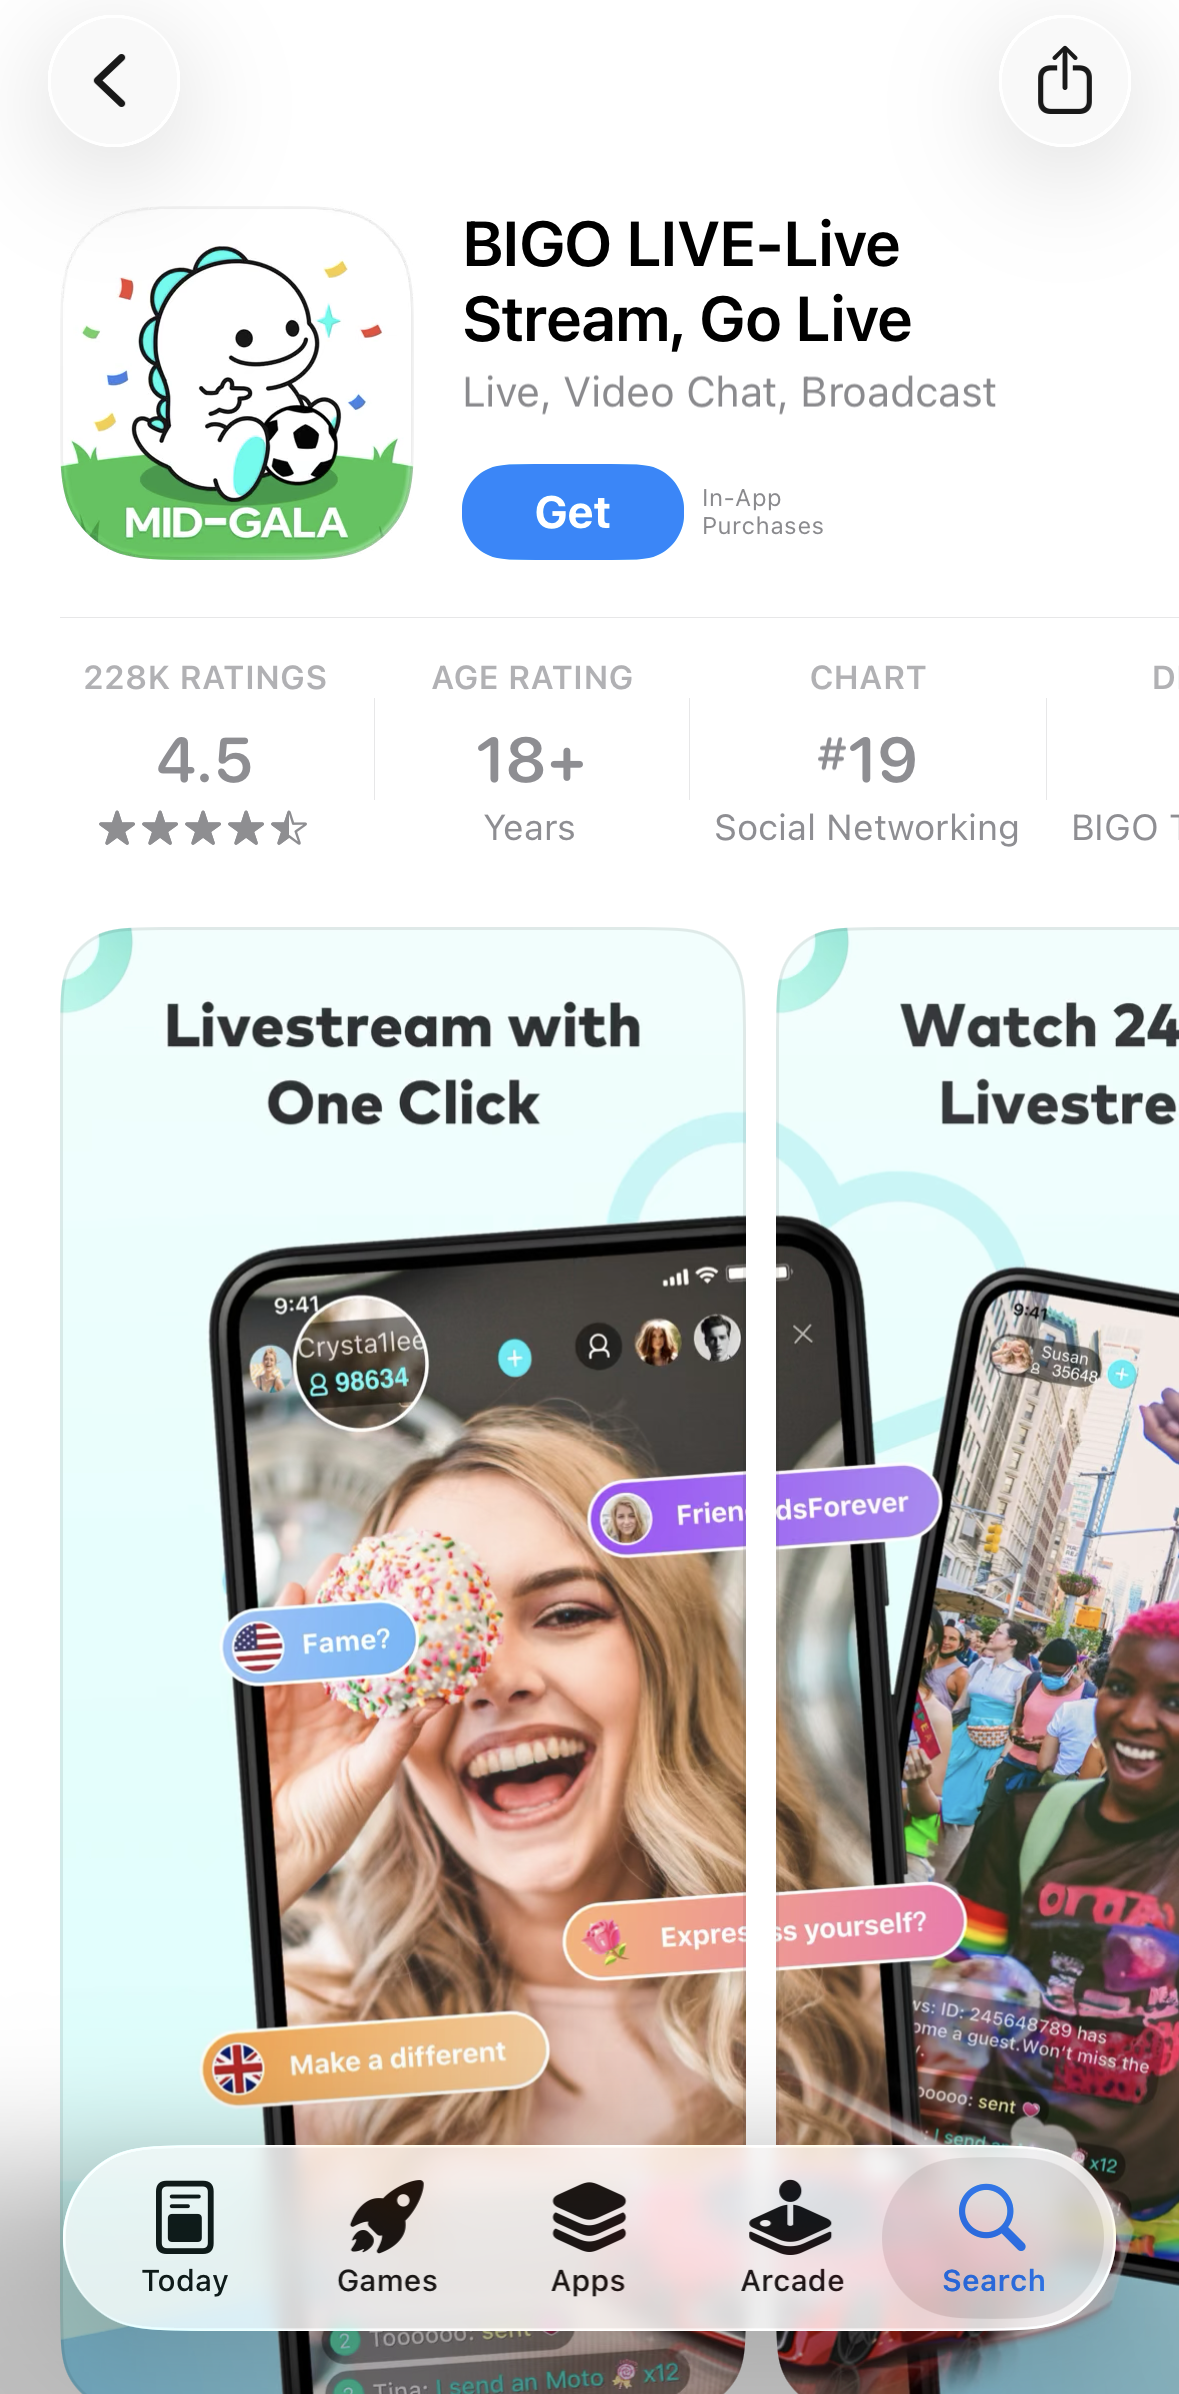
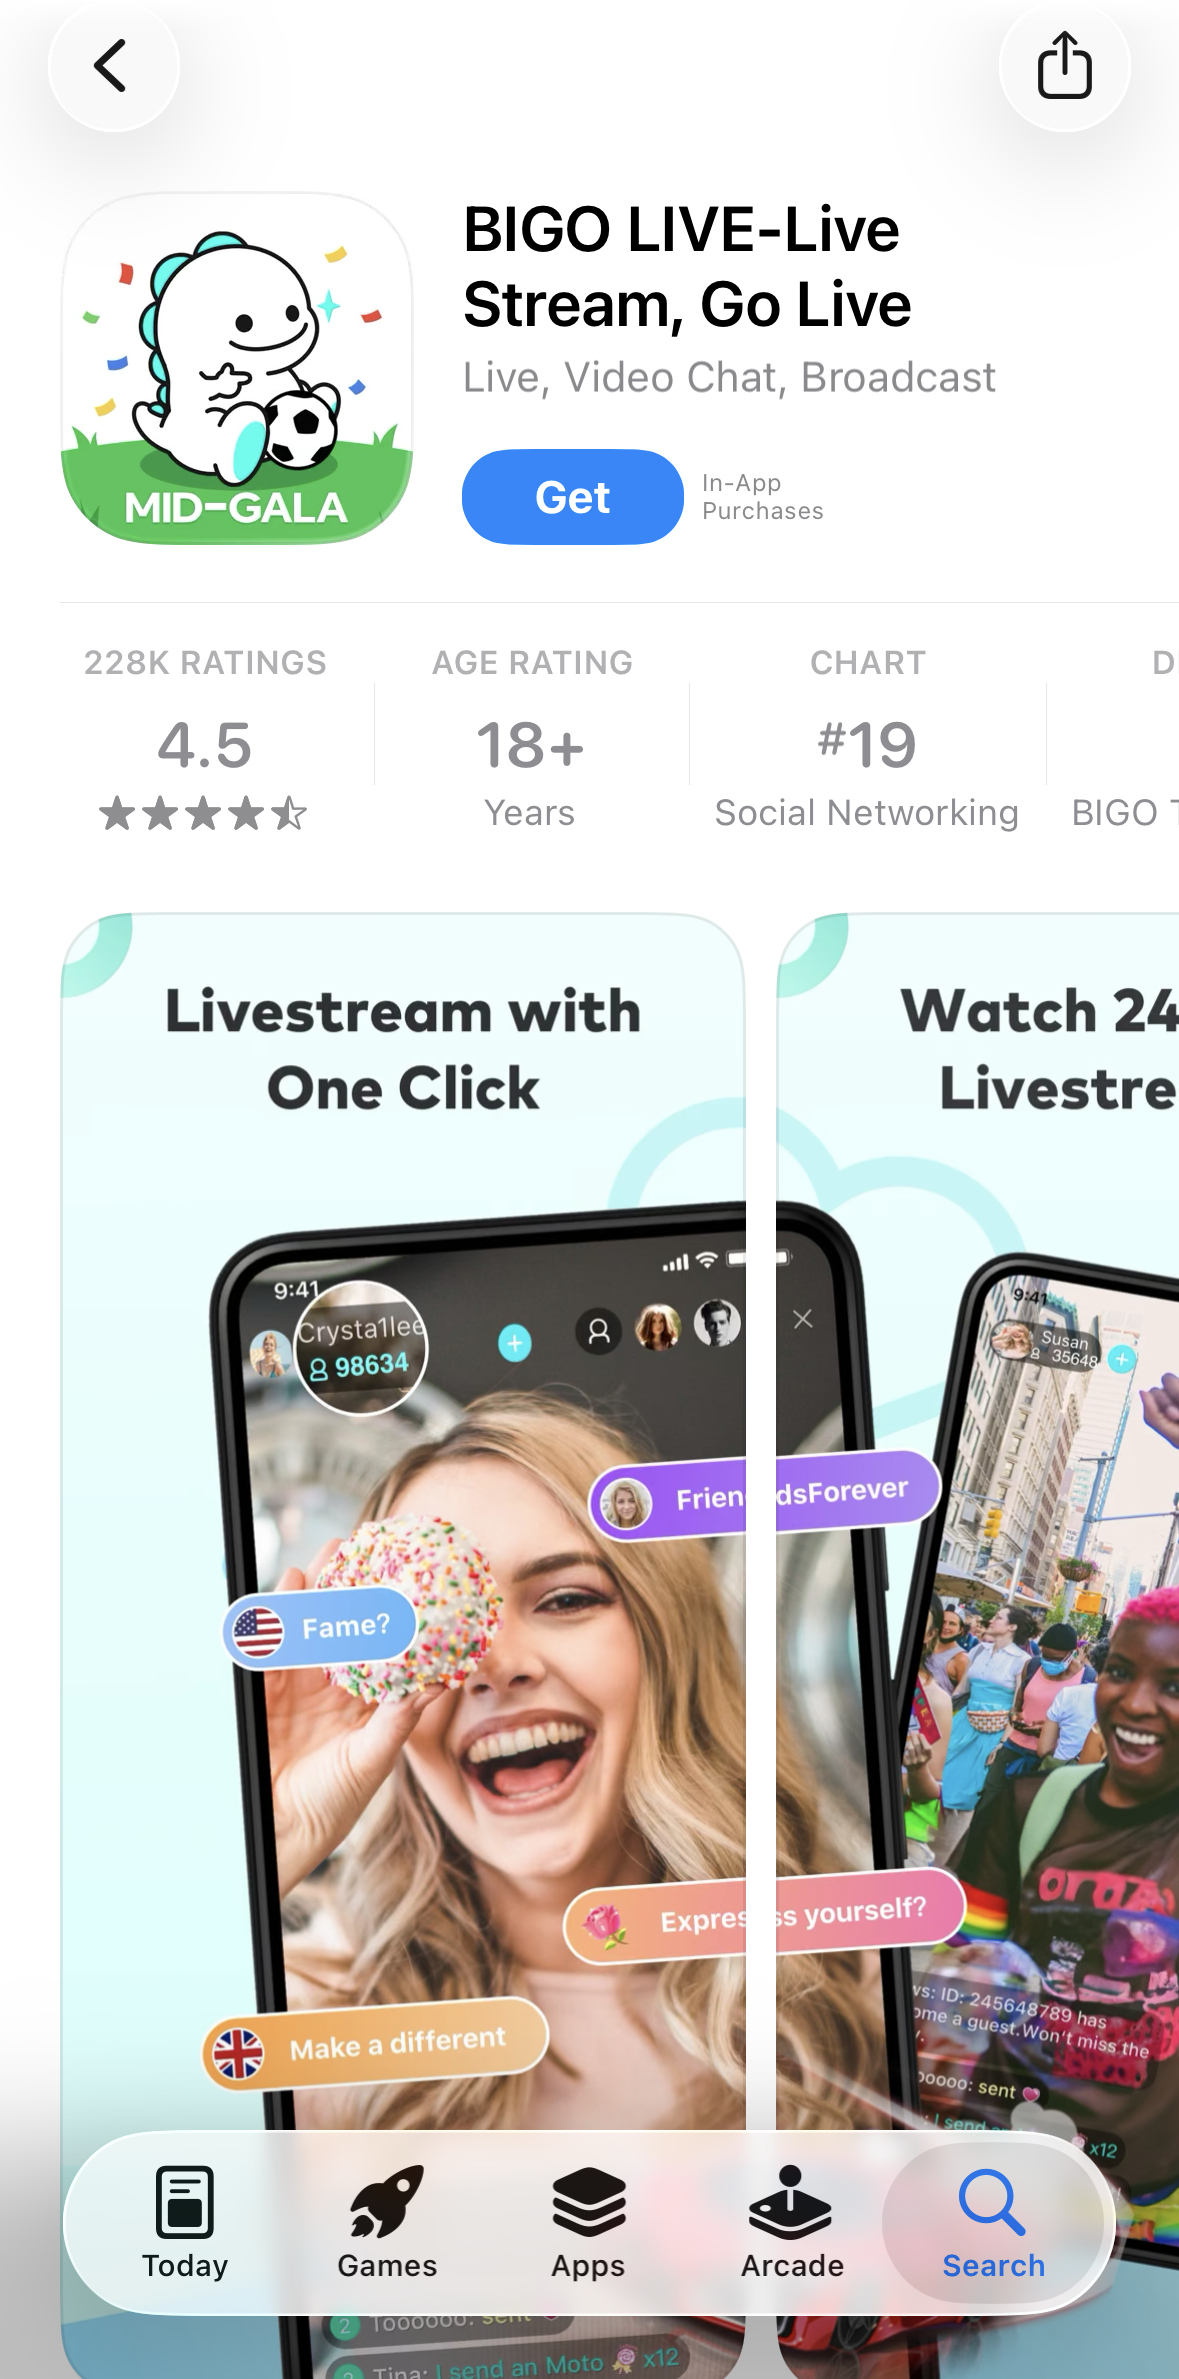
v3: true 177px status crop 1to1, feathered top wash, patch covers In-App label, tap highlight killed, canonical bigolive deep link, hidden link-test page

diff --git a/index.html b/index.html
@@ -12,8 +12,9 @@
 <link rel="manifest" href="manifest.webmanifest">
 <title>App Store</title>
 <style>
-  /* canvas = IMG_6059 minus the 162px status bar: 1179 x 2394.
-     Every overlay is placed in % of that canvas so page and overlays scale together. */
+  /* canvas = IMG_6059 minus the true 14 Pro status bar (59pt = 177px): 1179 x 2379,
+     1:1 with the device. Every overlay is placed in % of that canvas. */
+  * { -webkit-tap-highlight-color: rgba(0,0,0,0); }
   html, body { margin:0; padding:0; height:100%; background:#fff; overflow:hidden;
                overscroll-behavior:none; }
   #stage { position:fixed; inset:0; background:#fff;
@@ -21,11 +22,12 @@
            touch-action:none; overflow:hidden; }
   #bg { position:absolute; inset:0; width:100%; height:100%; display:block;
         pointer-events:none; }
-  /* white patch under the animating sprites, covering the baked Get pill (458-688 x 460-564) */
-  #patch { position:absolute; left:38.8465%; top:19.2147%; width:19.5081%; height:4.3442%;
+  /* white patch: covers the baked Get pill AND the In-App Purchases label
+     (x 454-834, y 441-548 canvas) from the moment of the tap, forever */
+  #patch { position:absolute; left:38.5072%; top:18.5372%; width:32.2307%; height:4.4977%;
            background:#fff; display:none; pointer-events:none; }
-  /* Get sprite: the real pill crop (230x104 incl 4px AA margin) at 458,460 */
-  #getspr { position:absolute; left:38.8465%; top:19.2147%; width:19.5081%; height:4.3442%;
+  /* Get sprite: the real pill crop (230x104 incl 4px AA margin) at 458,445 */
+  #getspr { position:absolute; left:38.8465%; top:18.7053%; width:19.5081%; height:4.3716%;
             pointer-events:none; transform-origin:50% 50%; }
   #getspr img { width:100%; height:100%; display:block; }
   #ov { position:absolute; inset:0; width:100%; height:100%; pointer-events:none; }
@@ -34,13 +36,14 @@
   #morph img { position:absolute; left:50%; top:50%; transform:translate(-50%,-50%);
                width:230px; height:104px; }
   /* final Open sprite, unclipped real pixels */
-  #openfin { position:absolute; left:38.8465%; top:19.2147%; width:19.5081%; height:4.3442%;
+  #openfin { position:absolute; left:38.8465%; top:18.7053%; width:19.5081%; height:4.3716%;
              display:none; pointer-events:none; }
   #openfin img { width:100%; height:100%; display:block; }
-  #tap { position:absolute; left:37%; top:18.2%; width:23%; height:6.4%;
+  #tap { position:absolute; left:37%; top:17.6%; width:23%; height:6.6%;
          touch-action:manipulation; }
-  #open { position:absolute; left:37%; top:18.2%; width:23%; height:6.4%;
-          display:none; touch-action:manipulation; }
+  #open { position:absolute; left:37%; top:17.6%; width:23%; height:6.6%;
+          display:none; touch-action:manipulation; outline:none;
+          -webkit-tap-highlight-color: rgba(0,0,0,0); }
 </style>
 </head>
 <body>
@@ -48,27 +51,28 @@
   <img id="bg" src="bg.png" alt="">
   <div id="patch"></div>
   <div id="getspr"><img src="get.png" alt=""></div>
-  <svg id="ov" viewBox="0 0 1179 2394" preserveAspectRatio="none"
+  <svg id="ov" viewBox="0 0 1179 2379" preserveAspectRatio="none"
        xmlns="http://www.w3.org/2000/svg">
-    <!-- ring center (510, 511.5), centerline r 39, stroke 7 (V3 2.3pt @3x, measured on the
+    <!-- ring center (510, 496.5), centerline r 39, stroke 7 (V3 2.3pt @3x, measured on the
          real 14 Pro install). Track #E6E4E6, arc #007DFF, bars per V3 (2.45x9.45pt, gap 1.55pt). -->
     <g id="ringg" opacity="0">
-      <circle id="track" cx="510" cy="511.5" r="39" fill="none"
+      <circle id="track" cx="510" cy="496.5" r="39" fill="none"
               stroke="#E6E4E6" stroke-width="7" stroke-linecap="round"
-              stroke-dasharray="193.6 245.04" transform="rotate(-90 510 511.5)"/>
-      <circle id="arc" cx="510" cy="511.5" r="39" fill="none"
+              stroke-dasharray="193.6 245.04" transform="rotate(-90 510 496.5)"/>
+      <circle id="arc" cx="510" cy="496.5" r="39" fill="none"
               stroke="#007DFF" stroke-width="7" stroke-linecap="round"
-              stroke-dasharray="0 245.04" transform="rotate(-90 510 511.5)"/>
+              stroke-dasharray="0 245.04" transform="rotate(-90 510 496.5)"/>
       <g id="pausebars" opacity="0" fill="#007DFF">
-        <rect x="500.32" y="497.32" width="7.35" height="28.35" rx="3.675"/>
-        <rect x="512.32" y="497.32" width="7.35" height="28.35" rx="3.675"/>
+        <rect x="500.32" y="482.32" width="7.35" height="28.35" rx="3.675"/>
+        <rect x="512.32" y="482.32" width="7.35" height="28.35" rx="3.675"/>
       </g>
     </g>
   </svg>
   <div id="morph"><img src="open.png" alt=""></div>
   <div id="openfin"><img src="open.png" alt=""></div>
   <div id="tap"></div>
-  <a id="open" href="bigolive://main" rel="noopener"></a>
+  <a id="open" href="bigolive://livevideoshow?visitor=1" rel="noopener"></a>
+  <div id="diag" style="position:absolute;left:0;top:0;width:14%;height:7%;touch-action:manipulation;"></div>
 </div>
 <script>
 (function () {
@@ -79,9 +83,9 @@
       openfin = $('openfin'), tap = $('tap'), openA = $('open');
 
   var CIRC = 245.04;                       // 2*pi*39
-  var CW = 1179, CH = 2394;                // canvas
-  var RCX = 510, RCY = 511.5;              // ring center
-  var PILL = { x: 462, y: 464, w: 222, h: 96 };
+  var CW = 1179, CH = 2379;                // canvas
+  var RCX = 510, RCY = 496.5;              // ring center
+  var PILL = { x: 462, y: 449, w: 222, h: 96 };
 
   // ---- BigoSim V3 R30/R32 timeline, ported verbatim (seconds from tap) ----
   var COLLAPSE = 0.18;
@@ -250,6 +254,15 @@
   document.addEventListener('touchend', function (e) {
     if (e.target !== openA && e.target !== tap) e.preventDefault();
   }, { passive: false });
+
+  // hidden door to the link-test page: triple-tap the top-left corner within 1.2s
+  var diagTaps = [];
+  document.getElementById('diag').addEventListener('pointerup', function () {
+    var now = performance.now();
+    diagTaps = diagTaps.filter(function (t) { return now - t < 1200; });
+    diagTaps.push(now);
+    if (diagTaps.length >= 3) location.href = 't.html';
+  });
 
   window.__dbg = { start: start, tick: tick, setT0: function (v) { t0 = v; },
                    getT0: function () { return t0; } };

diff --git a/t.html b/t.html
@@ -1,0 +1,25 @@
+<!DOCTYPE html>
+<html lang="en">
+<head>
+<meta charset="utf-8">
+<meta name="viewport" content="width=device-width, initial-scale=1">
+<title>Link test</title>
+<style>
+  body { font-family: -apple-system, sans-serif; margin: 24px; background: #fff; }
+  h2 { font-size: 18px; }
+  a.t { display: block; margin: 14px 0; padding: 16px; background: #007DFE; color: #fff;
+        border-radius: 12px; text-decoration: none; font-weight: 600; }
+  a.back { display: block; margin-top: 30px; color: #555; }
+  p { color: #444; font-size: 14px; }
+</style>
+</head>
+<body>
+<h2>Bigo link test - tap each, note what happens</h2>
+<p>For each button: instant app, prompt ("Open in BIGO LIVE?"), error alert, or web page?</p>
+<a class="t" href="bigolive://livevideoshow?visitor=1">1 - deep link (Bigo's own canonical)</a>
+<a class="t" href="bigolive://">2 - deep link (bare scheme)</a>
+<a class="t" href="https://slink.bigovideo.tv/live">3 - universal link (same tab)</a>
+<a class="t" href="https://slink.bigovideo.tv/live" target="_blank" rel="noopener">4 - universal link (new context)</a>
+<a class="back" href="index.html">&larr; back to the page</a>
+</body>
+</html>

diff --git a/sw.js b/sw.js
@@ -1,5 +1,5 @@
-var CACHE = 'bigosim-v2';
-var ASSETS = ['./', './index.html', './bg.png', './get.png', './open.png',
+var CACHE = 'bigosim-v3';
+var ASSETS = ['./', './index.html', './bg.png', './get.png', './open.png', './t.html',
               './manifest.webmanifest', './icon-180.png', './icon-512.png'];
 self.addEventListener('install', function (e) {
   e.waitUntil(caches.open(CACHE).then(function (c) { return c.addAll(ASSETS); })
